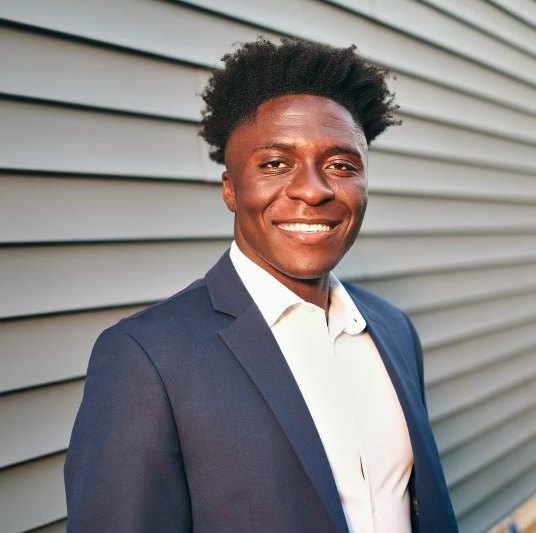
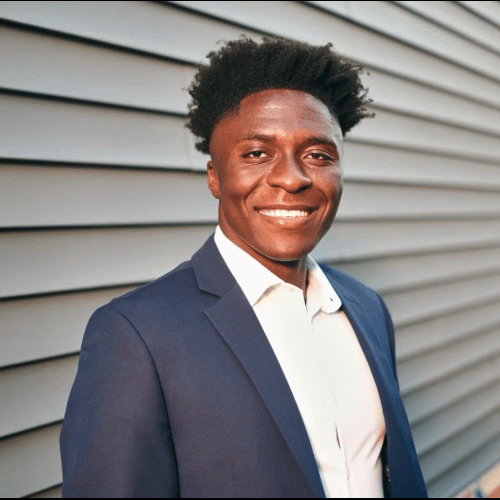
Major optimizations

diff --git a/client/src/components/Services/service.js b/client/src/components/Services/service.js
@@ -1,15 +1,11 @@
 import React from 'react';
 import { Container, Row, Col } from 'react-bootstrap';
 import './service.css';
-import exercise from './exercise.png';
-import wheelchair from './wheelchair.png';
-import shopping from './shopping.png';
-import van from './van.png';
-import companion from './companion.png';
 
 function Services() {
+
   return (
-    <Container className="my-0" style={{boxShadow: 'none'}}>
+    <Container className="my-0" style={{ boxShadow: 'none' }}>
       <h1 className="text-center mb-4">Our Services</h1>
 
       <Row className="align-items-center service-row">
@@ -22,7 +18,13 @@ function Services() {
           </ul>
         </Col>
         <Col md={6}>
-          <img src={exercise} alt="Personal Care" className="img-fluid"/>
+          <img src="/exercise_small.jpeg" 
+               srcset={`/exercise_small.jpeg 500w,
+                        /exercise_medium.jpeg 1000w,
+                        /exercise_large.jpeg 1500w`}
+               sizes="(max-width: 768px) 100vw, (max-width: 1200px) 50vw, 500px"
+               alt="Personal Care" 
+               className="img-fluid"/>
         </Col>
       </Row>
 
@@ -36,7 +38,13 @@ function Services() {
           </ul>
         </Col>
         <Col md={6}>
-          <img src={wheelchair} alt="Health Management" className="img-fluid"/>
+          <img src="/wheelchair_small.jpeg"
+               srcset={`/wheelchair_small.jpeg 500w,
+                        /wheelchair_medium.jpeg 1000w,
+                        /wheelchair_large.jpeg 1500w`}
+               sizes="(max-width: 768px) 100vw, (max-width: 1200px) 50vw, 500px"
+               alt="Health Management" 
+               className="img-fluid"/>
         </Col>
       </Row>
 
@@ -50,7 +58,13 @@ function Services() {
           </ul>
         </Col>
         <Col md={6}>
-          <img src={shopping} alt="Home Assistance" className="img-fluid"/>
+          <img src="/shopping_small.jpeg"
+               srcset={`/shopping_small.jpeg 500w,
+                        /shopping_medium.jpeg 1000w,
+                        /shopping_large.jpeg 1500w`}
+               sizes="(max-width: 768px) 100vw, (max-width: 1200px) 50vw, 500px"
+               alt="Home Assistance" 
+               className="img-fluid"/>
         </Col>
       </Row>
 
@@ -64,7 +78,13 @@ function Services() {
           </ul>
         </Col>
         <Col md={6}>
-          <img src={van} alt="Mobility Support" className="img-fluid"/>
+          <img src="/transport_small.jpeg"
+               srcset={`/transport_small.jpeg 500w,
+                        /transport_medium.jpeg 1000w,
+                        /transport_large.jpeg 1500w`}
+               sizes="(max-width: 768px) 100vw, (max-width: 1200px) 50vw, 500px"
+               alt="Mobility Support" 
+               className="img-fluid"/>
         </Col>
       </Row>
 
@@ -78,7 +98,13 @@ function Services() {
           </ul>
         </Col>
         <Col md={6}>
-          <img src={companion} alt="Companionship and Support" className="img-fluid"/>
+          <img src="/companion_small.jpeg"
+               srcset={`/companion_small.jpeg 500w,
+                        /companion_medium.jpeg 1000w,
+                        /companion_large.jpeg 1500w`}
+               sizes="(max-width: 768px) 100vw, (max-width: 1200px) 50vw, 500px"
+               alt="Companionship and Support" 
+               className="img-fluid"/>
         </Col>
       </Row>
     </Container>

diff --git a/client/src/components/Navbar/MainNavbar.js b/client/src/components/Navbar/MainNavbar.js
@@ -15,13 +15,13 @@ function MainNavbar() {
             <Link to="how-it-works" spy={true} smooth={true} duration={500} className="nav-link" style={{color: '#0056b3'}}>How It Works</Link>
             <Link to="services" spy={true} smooth={true} duration={500} className="nav-link" style={{color: '#0056b3'}}>Our Services</Link>
             <Link to="bio" spy={true} smooth={true} duration={500} className="nav-link" style={{color: '#0056b3'}}>Who We Are</Link>
-            <Link to="schedule" spy={true} smooth={true} duration={500} className="nav-link" style={{color: '#4CAF50'}}><strong>Free Consultation</strong></Link>
+            <Link to="schedule" spy={true} smooth={true} duration={500} className="nav-link" style={{color: '#006400'}}><strong>Free Consultation</strong></Link>
           </Nav>
         </Navbar.Collapse>
         <Navbar.Brand href="#home" className="mx-auto">
           <img
             src={logo2}
-            width="130"
+            width="120"
             height="50"
             className="d-inline-block align-top"
             alt="Company Logo"

diff --git a/client/src/components/Landing/LandingPage.js b/client/src/components/Landing/LandingPage.js
@@ -8,7 +8,7 @@ function LandingPage() {
       <div className="container-background">
         <h1 className="mb-4">Let’s Talk About Your Care Needs!</h1>
         <p>Get Personalized Care with a Free Consultation.</p>
-        <Link to="schedule" spy={true} smooth={true} duration={500} className="nav-link" style={{backgroundColor: '#4CAF50', color: '#fff', borderRadius: '5px', padding: '10px 20px'}}><strong>Click Here</strong></Link>
+        <Link to="schedule" spy={true} smooth={true} duration={500} className="nav-link" style={{backgroundColor: '#006400', color: '#fff', borderRadius: '5px', padding: '10px 20px'}}><strong>Click Here</strong></Link>
       </div>
     </div>
   );

diff --git a/client/src/components/HowWorks/work.css b/client/src/components/HowWorks/work.css
@@ -16,8 +16,8 @@
 }
 
 .green-btn {
-    background-color: #4CAF50; 
-    color: white;
+    background-color: #006400; 
+    color: #fff;
     border: none;
     padding: 10px 20px;
     text-align: center;
